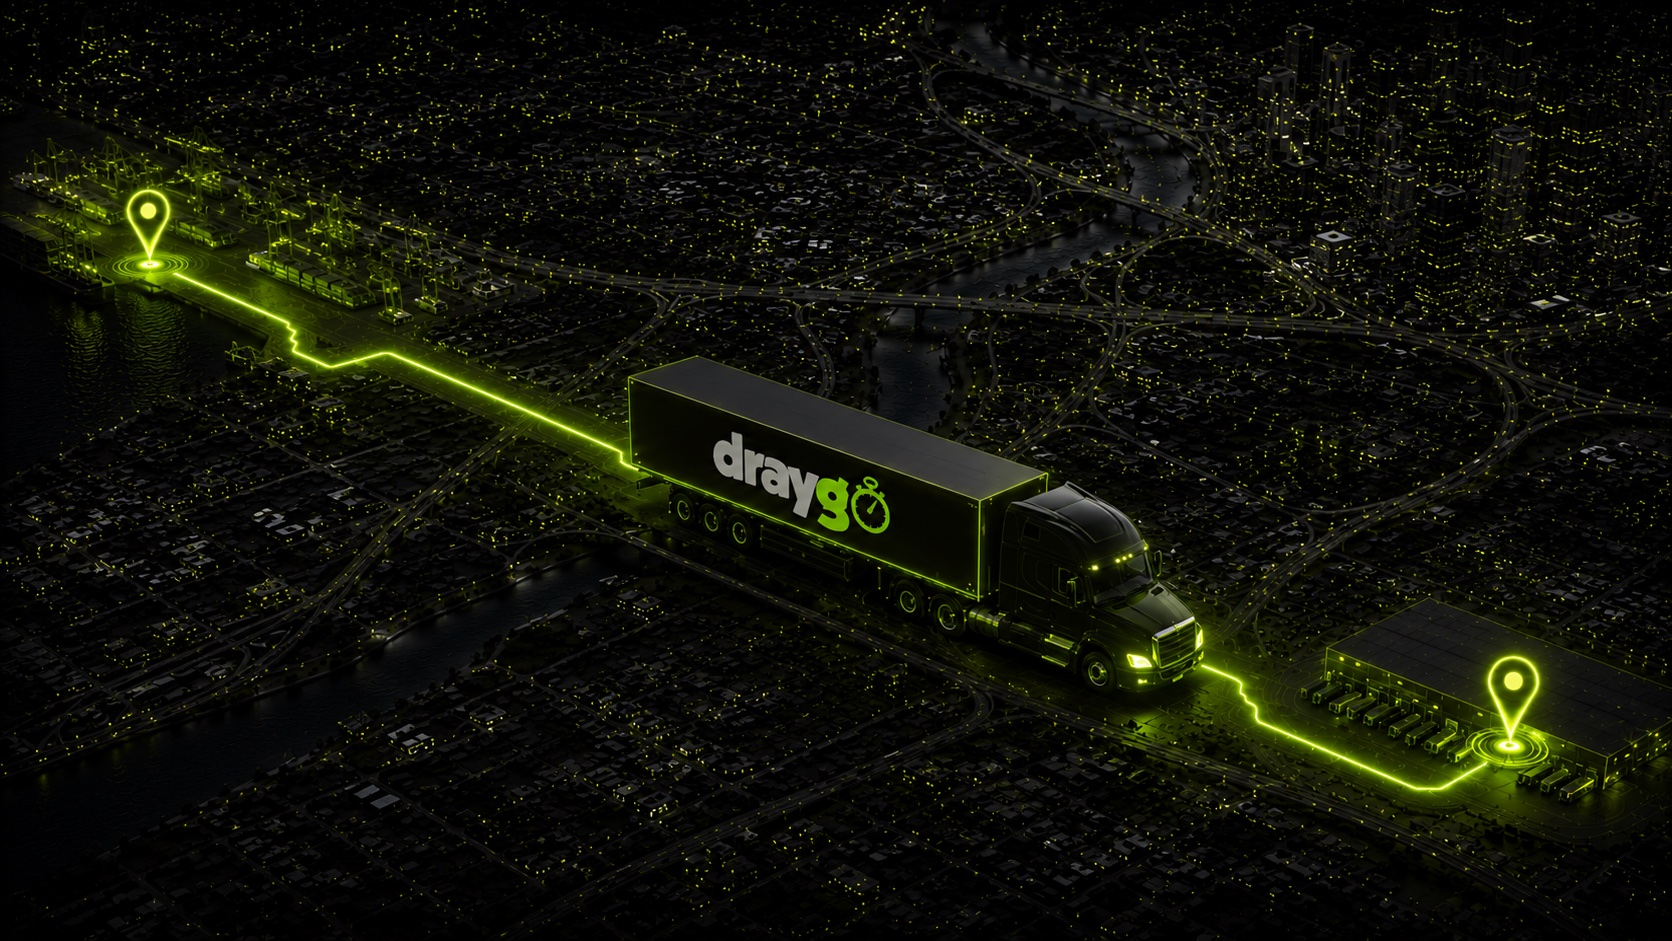
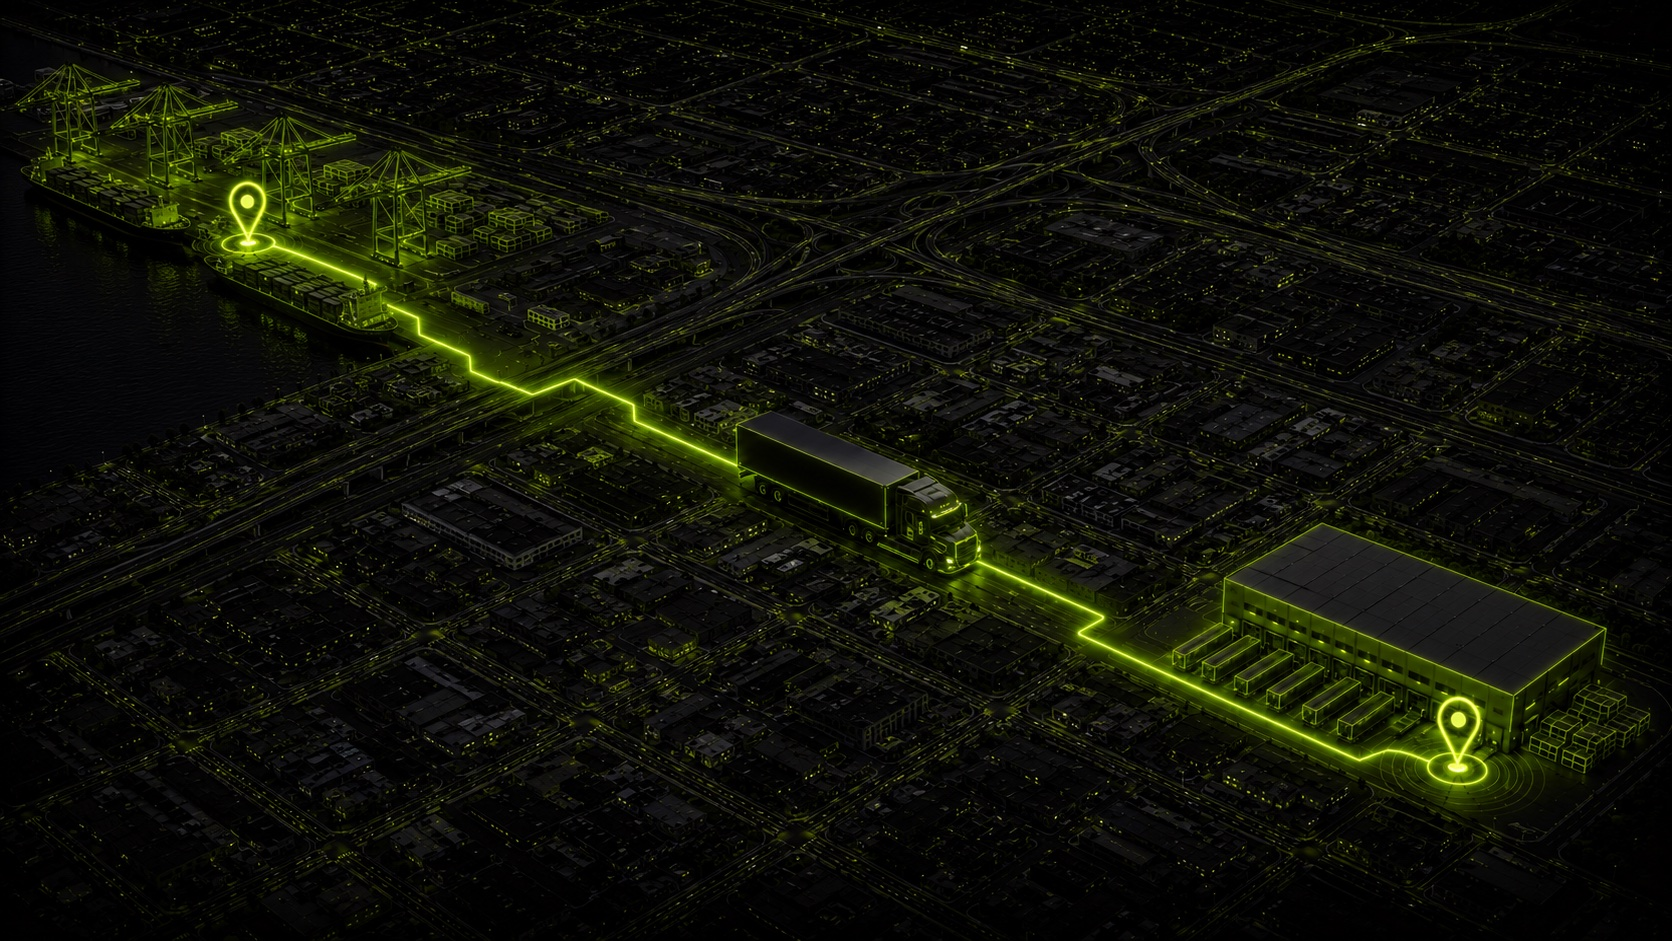
driver-app hero: wide port-to-warehouse route bg + transparent hands cutout mockup
- hero-bg swapped to the zoomed-out route render (port cranes → truck →
  warehouse), ?v=2 cache-bust, slightly lighter left scrim
- hero mockup: high-res transparent cutout built from the removebg
  preview alpha applied to the original 6000px render (haze thresholded),
  lime glow behind, right/bottom CSS mask fades to blend edges

Changed region(s): [[0.0, 0.0, 1.0, 0.9554], [0.1866, 0.8937, 0.2177, 0.9245]]

diff --git a/nextjs-site/src/app/driver-app/page.tsx b/nextjs-site/src/app/driver-app/page.tsx
@@ -98,12 +98,12 @@ function Hero() {
     <section style={{ position: "relative", overflow: "hidden", borderBottom: `1px solid ${BORDER}` }}>
       {/* truck-route background */}
       <picture>
-        <source srcSet={asset("/driver-app/hero-bg.webp")} type="image/webp" />
-        <img src={asset("/driver-app/hero-bg.jpg")} alt="" aria-hidden="true"
+        <source srcSet={asset("/driver-app/hero-bg.webp?v=2")} type="image/webp" />
+        <img src={asset("/driver-app/hero-bg.jpg?v=2")} alt="" aria-hidden="true"
           style={{ position: "absolute", inset: 0, width: "100%", height: "100%", objectFit: "cover", objectPosition: "center" }} />
       </picture>
       {/* scrim — keeps copy readable, fades into page bg */}
-      <div style={{ position: "absolute", inset: 0, background: `linear-gradient(90deg, rgba(10,14,7,0.94) 0%, rgba(10,14,7,0.78) 38%, rgba(10,14,7,0.35) 70%, rgba(10,14,7,0.45) 100%)`, pointerEvents: "none" }} />
+      <div style={{ position: "absolute", inset: 0, background: `linear-gradient(90deg, rgba(10,14,7,0.9) 0%, rgba(10,14,7,0.68) 38%, rgba(10,14,7,0.3) 70%, rgba(10,14,7,0.4) 100%)`, pointerEvents: "none" }} />
       <div style={{ position: "absolute", inset: 0, background: `linear-gradient(180deg, rgba(10,14,7,0.55) 0%, rgba(10,14,7,0) 30%, rgba(10,14,7,0) 62%, rgba(10,14,7,0.9) 100%)`, pointerEvents: "none" }} />
 
       <div className="max-w-[1200px] mx-auto grid lg:grid-cols-[1.05fr_1fr] gap-10 items-center" style={{ padding: "clamp(56px,8vw,110px) clamp(24px,4vw,56px) 0", position: "relative", zIndex: 1 }}>
@@ -136,10 +136,16 @@ function Hero() {
           </div>
         </div>
 
-        {/* phone-in-hand mockup */}
-        <div className="reveal-right reveal-delay-1 flex" style={{ alignItems: "center", justifyContent: "center", position: "relative", padding: "8px 0 24px" }}>
-          <HandShot name="hand-home" alt="DrayGo Driver app in hand — home and today's earnings" eager zoom={1.5}
-            style={{ width: "min(680px, 100%)" }} />
+        {/* phone-in-hands cutout mockup */}
+        <div className="reveal-right reveal-delay-1 flex" style={{ alignItems: "flex-end", justifyContent: "center", position: "relative", paddingTop: 24 }}>
+          <div style={{ position: "absolute", inset: 0, background: `radial-gradient(ellipse 55% 55% at 50% 60%, ${LIME}22 0%, transparent 70%)`, pointerEvents: "none" }} />
+          <picture style={{ display: "block", width: "min(620px, 100%)", position: "relative",
+            maskImage: "linear-gradient(180deg, black 86%, transparent 99%)", WebkitMaskImage: "linear-gradient(180deg, black 86%, transparent 99%)" }}>
+            <source srcSet={asset("/driver-app/hand-hero.webp")} type="image/webp" />
+            <img src={asset("/driver-app/hand-hero.png")} alt="Driver accepting a load in the DrayGo Driver app" loading="eager"
+              style={{ width: "100%", display: "block",
+                maskImage: "linear-gradient(90deg, black 84%, transparent 98%)", WebkitMaskImage: "linear-gradient(90deg, black 84%, transparent 98%)" }} />
+          </picture>
         </div>
       </div>
     </section>
